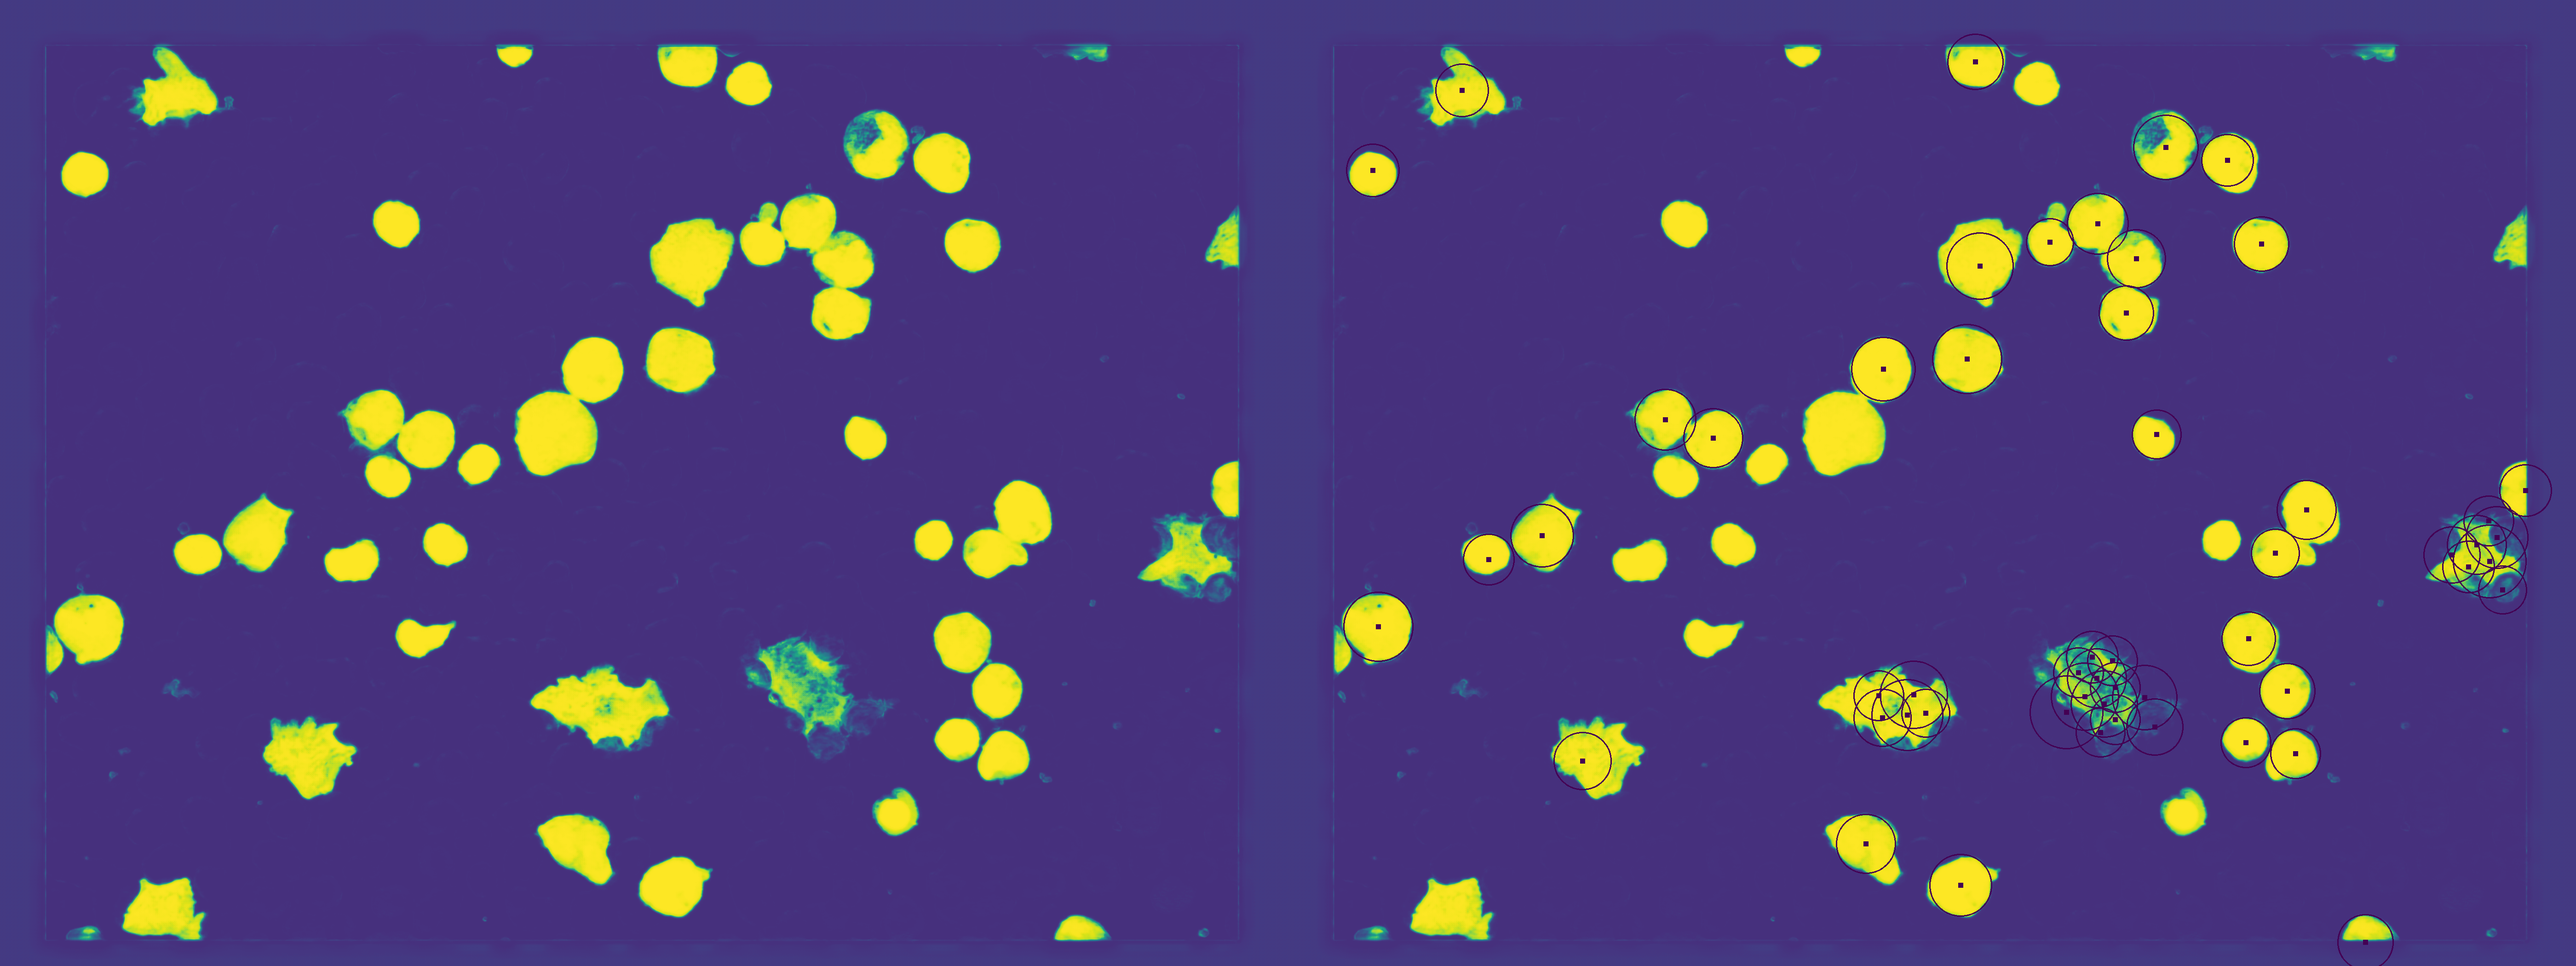
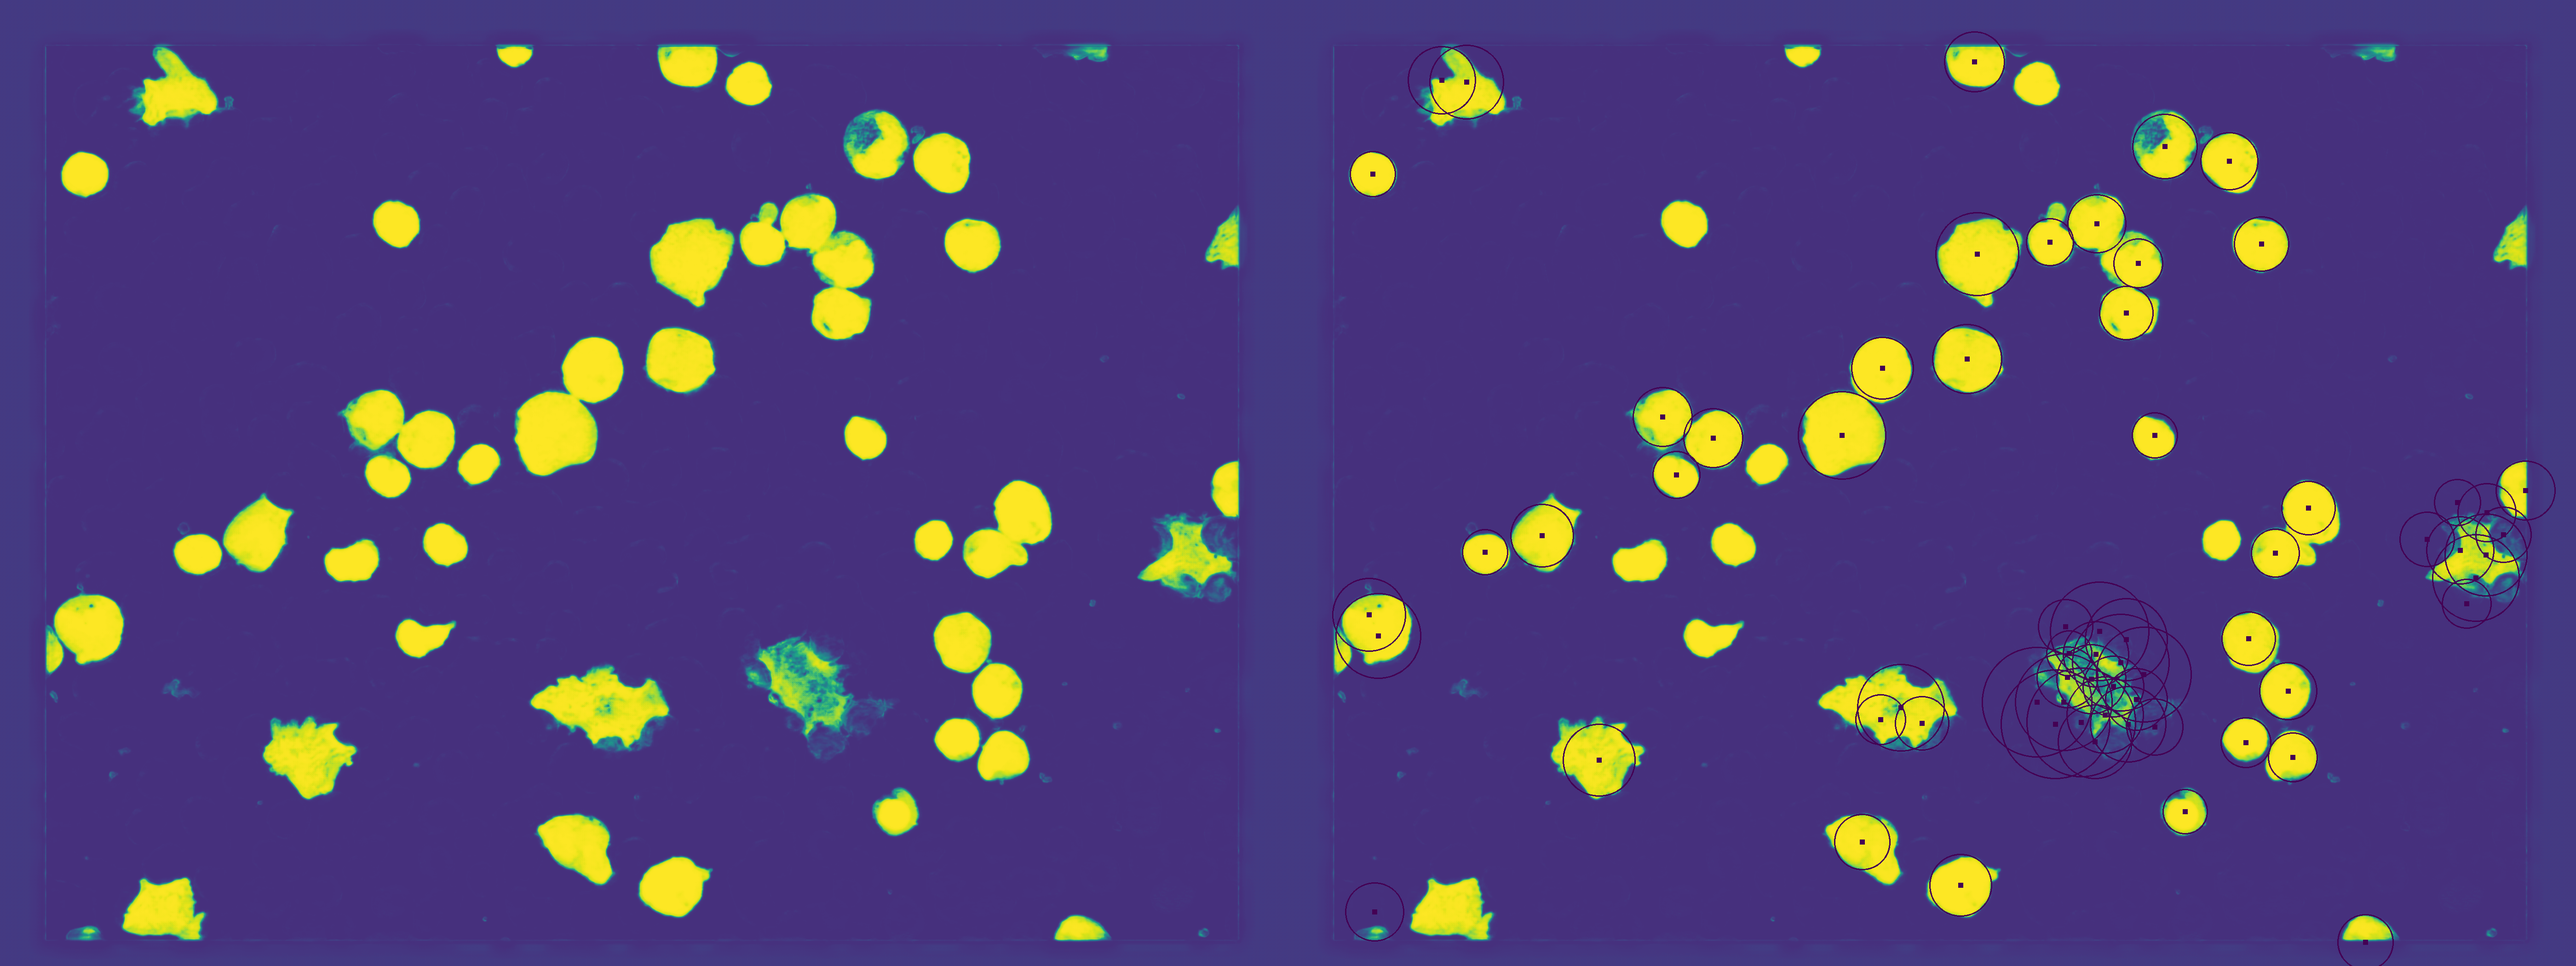
Updated latest red blood cells results!

diff --git a/bc-count/main.py b/bc-count/main.py
@@ -336,7 +336,7 @@ def hough_transform(img='edge.png'):
     if cell_type == 'rbc':
         circles = cv2.HoughCircles(img, cv2.HOUGH_GRADIENT, 1, minDist=33, maxRadius=55, minRadius=28, param1=30, param2=20)
     elif cell_type == 'wbc' or cell_type == 'plt':
-        circles = cv2.HoughCircles(img, cv2.HOUGH_GRADIENT, 1, minDist=41, maxRadius=80, minRadius=51, param1=30, param2=20)
+        circles = cv2.HoughCircles(img, cv2.HOUGH_GRADIENT, 1, minDist=51, maxRadius=120, minRadius=48, param1=70, param2=20)
     output = img.copy()
 
     # ensure at least some circles were found
@@ -414,7 +414,7 @@ def distance_transform(img='threshold_edge_mask.png'):
 if __name__ == '__main__':
     # train('wbc')
     # evaluate(model_name='quadtree_test')
-    predict(img='Im053_1')
+    predict()
     threshold('mask.png')
 
     if cell_type == 'rbc':

diff --git a/bc-count/config.py b/bc-count/config.py
@@ -6,7 +6,7 @@ which stands for:
     wbc --> White blood cells
     plt --> Platelets
 '''
-cell_type        = 'wbc'             # rbc, wbc or plt
+cell_type        = 'rbc'             # rbc, wbc or plt
 model_name       = cell_type
 input_shape      = (188, 188, 3)
 output_shape     = (100, 100, 1)
